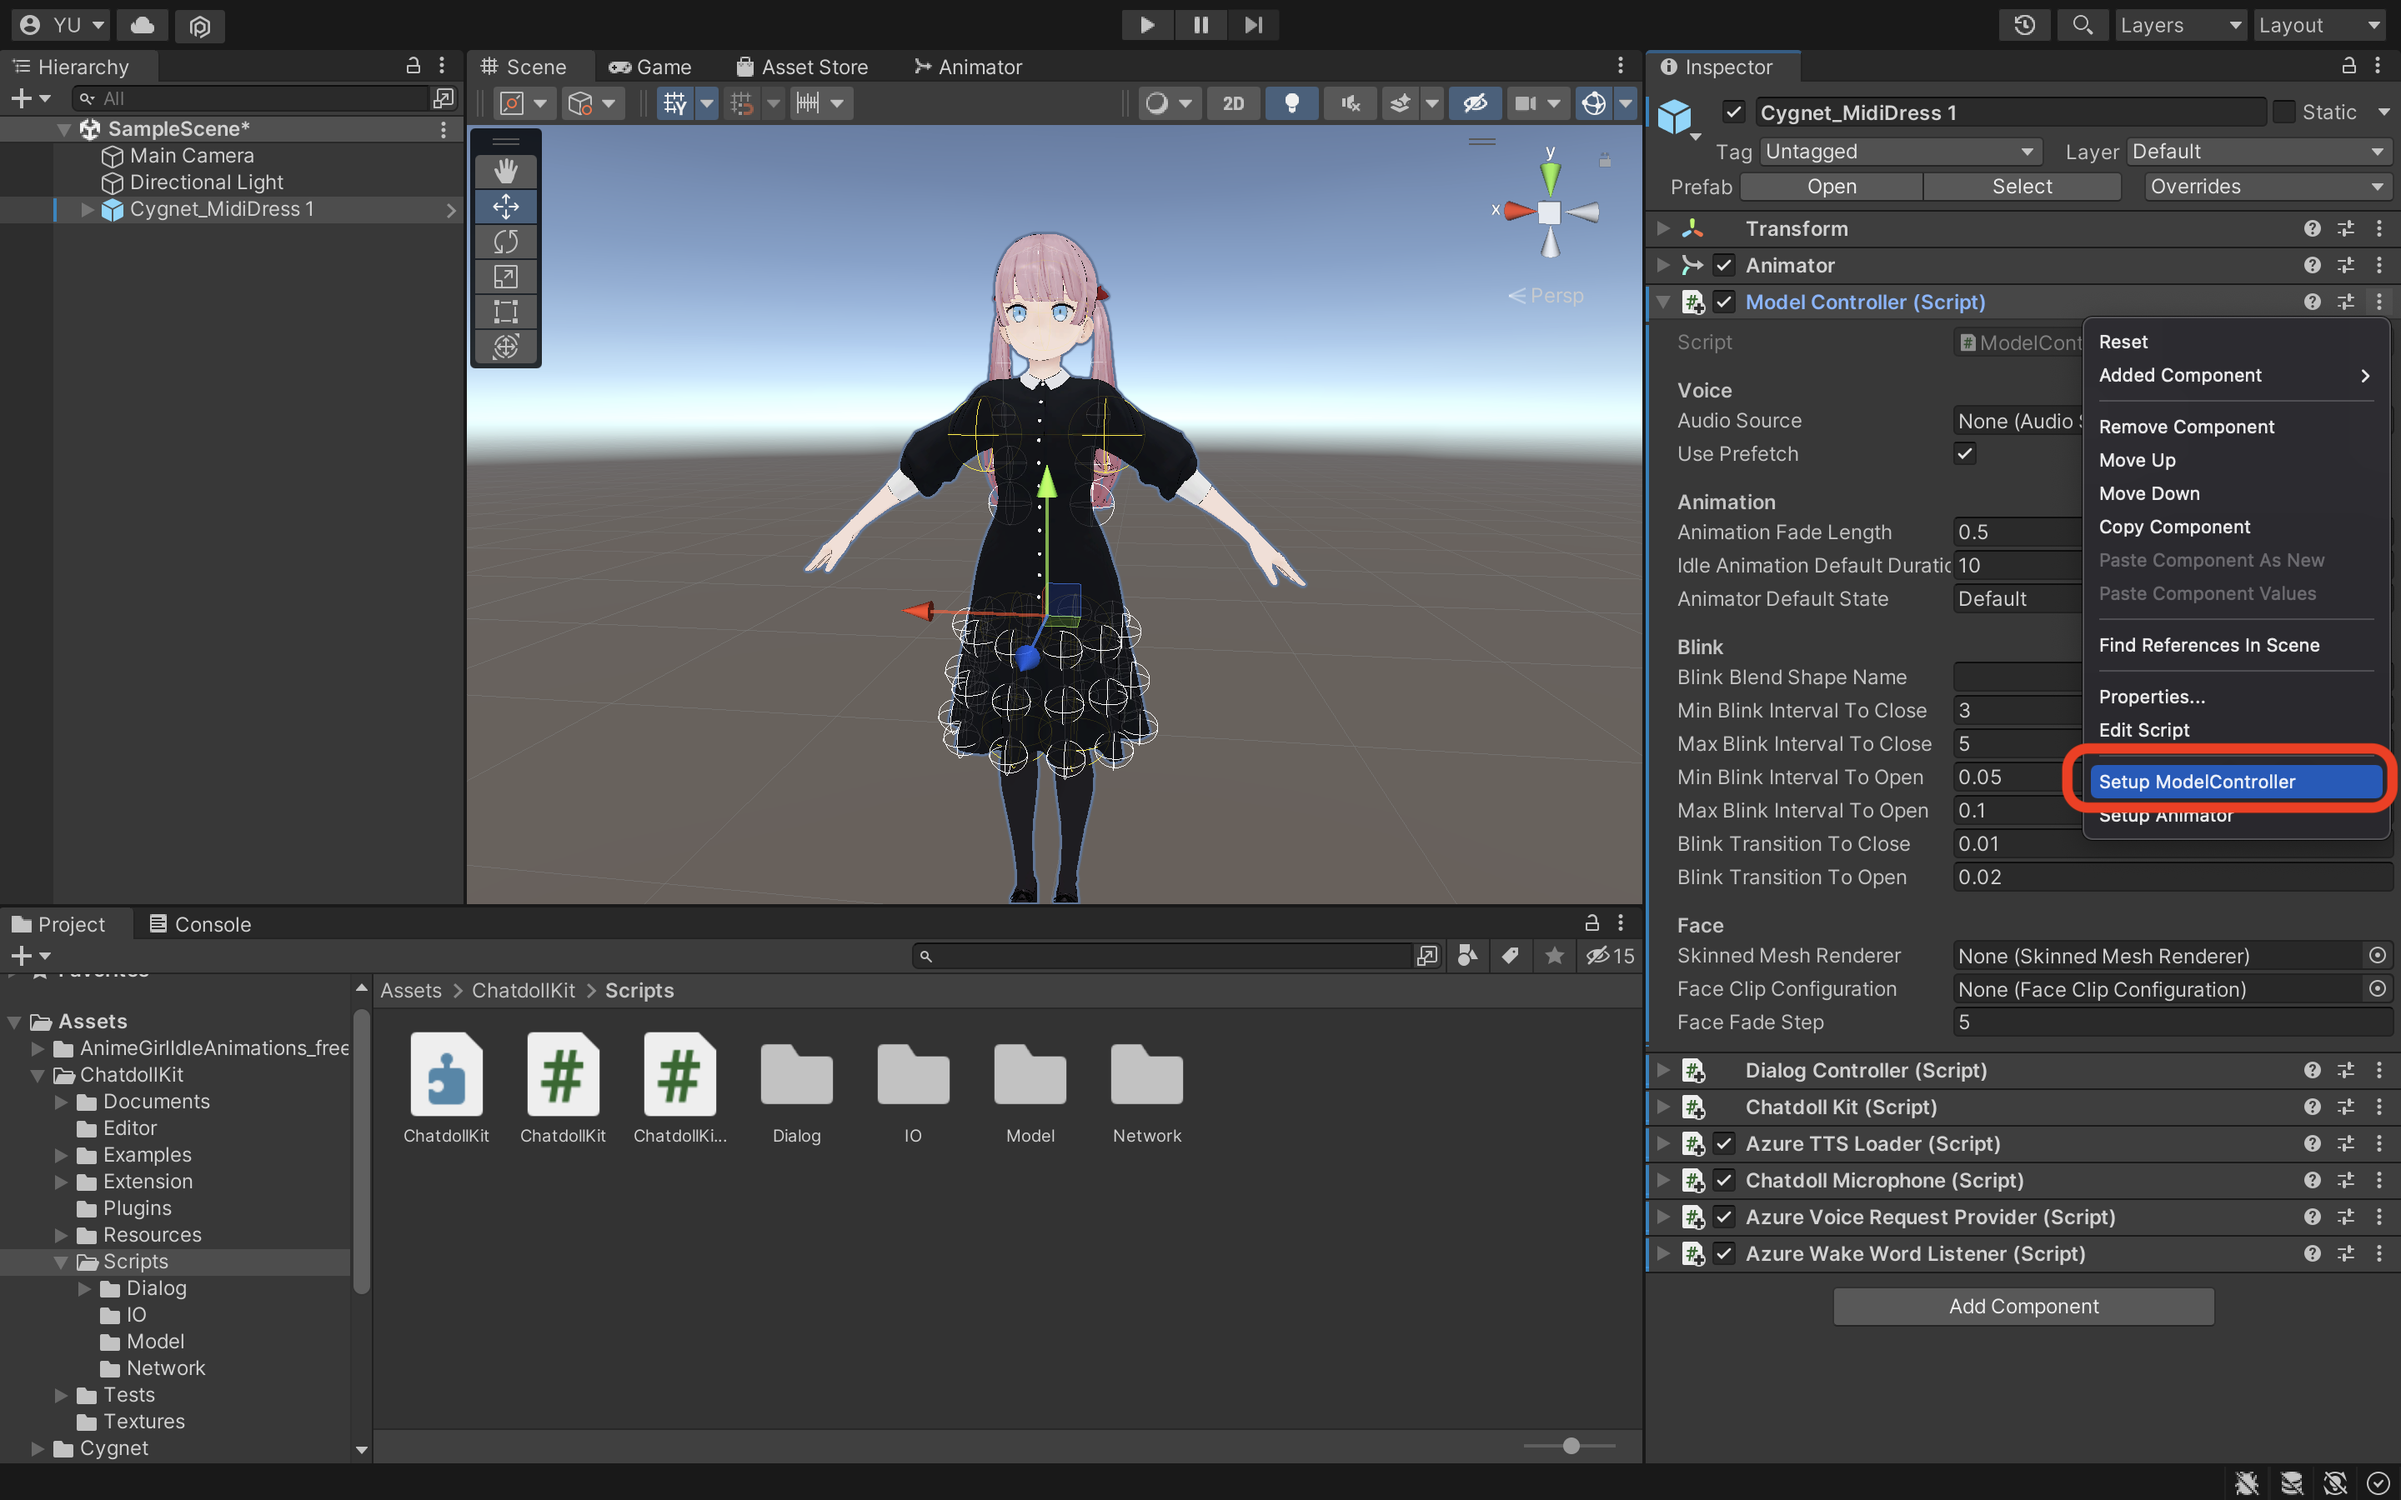
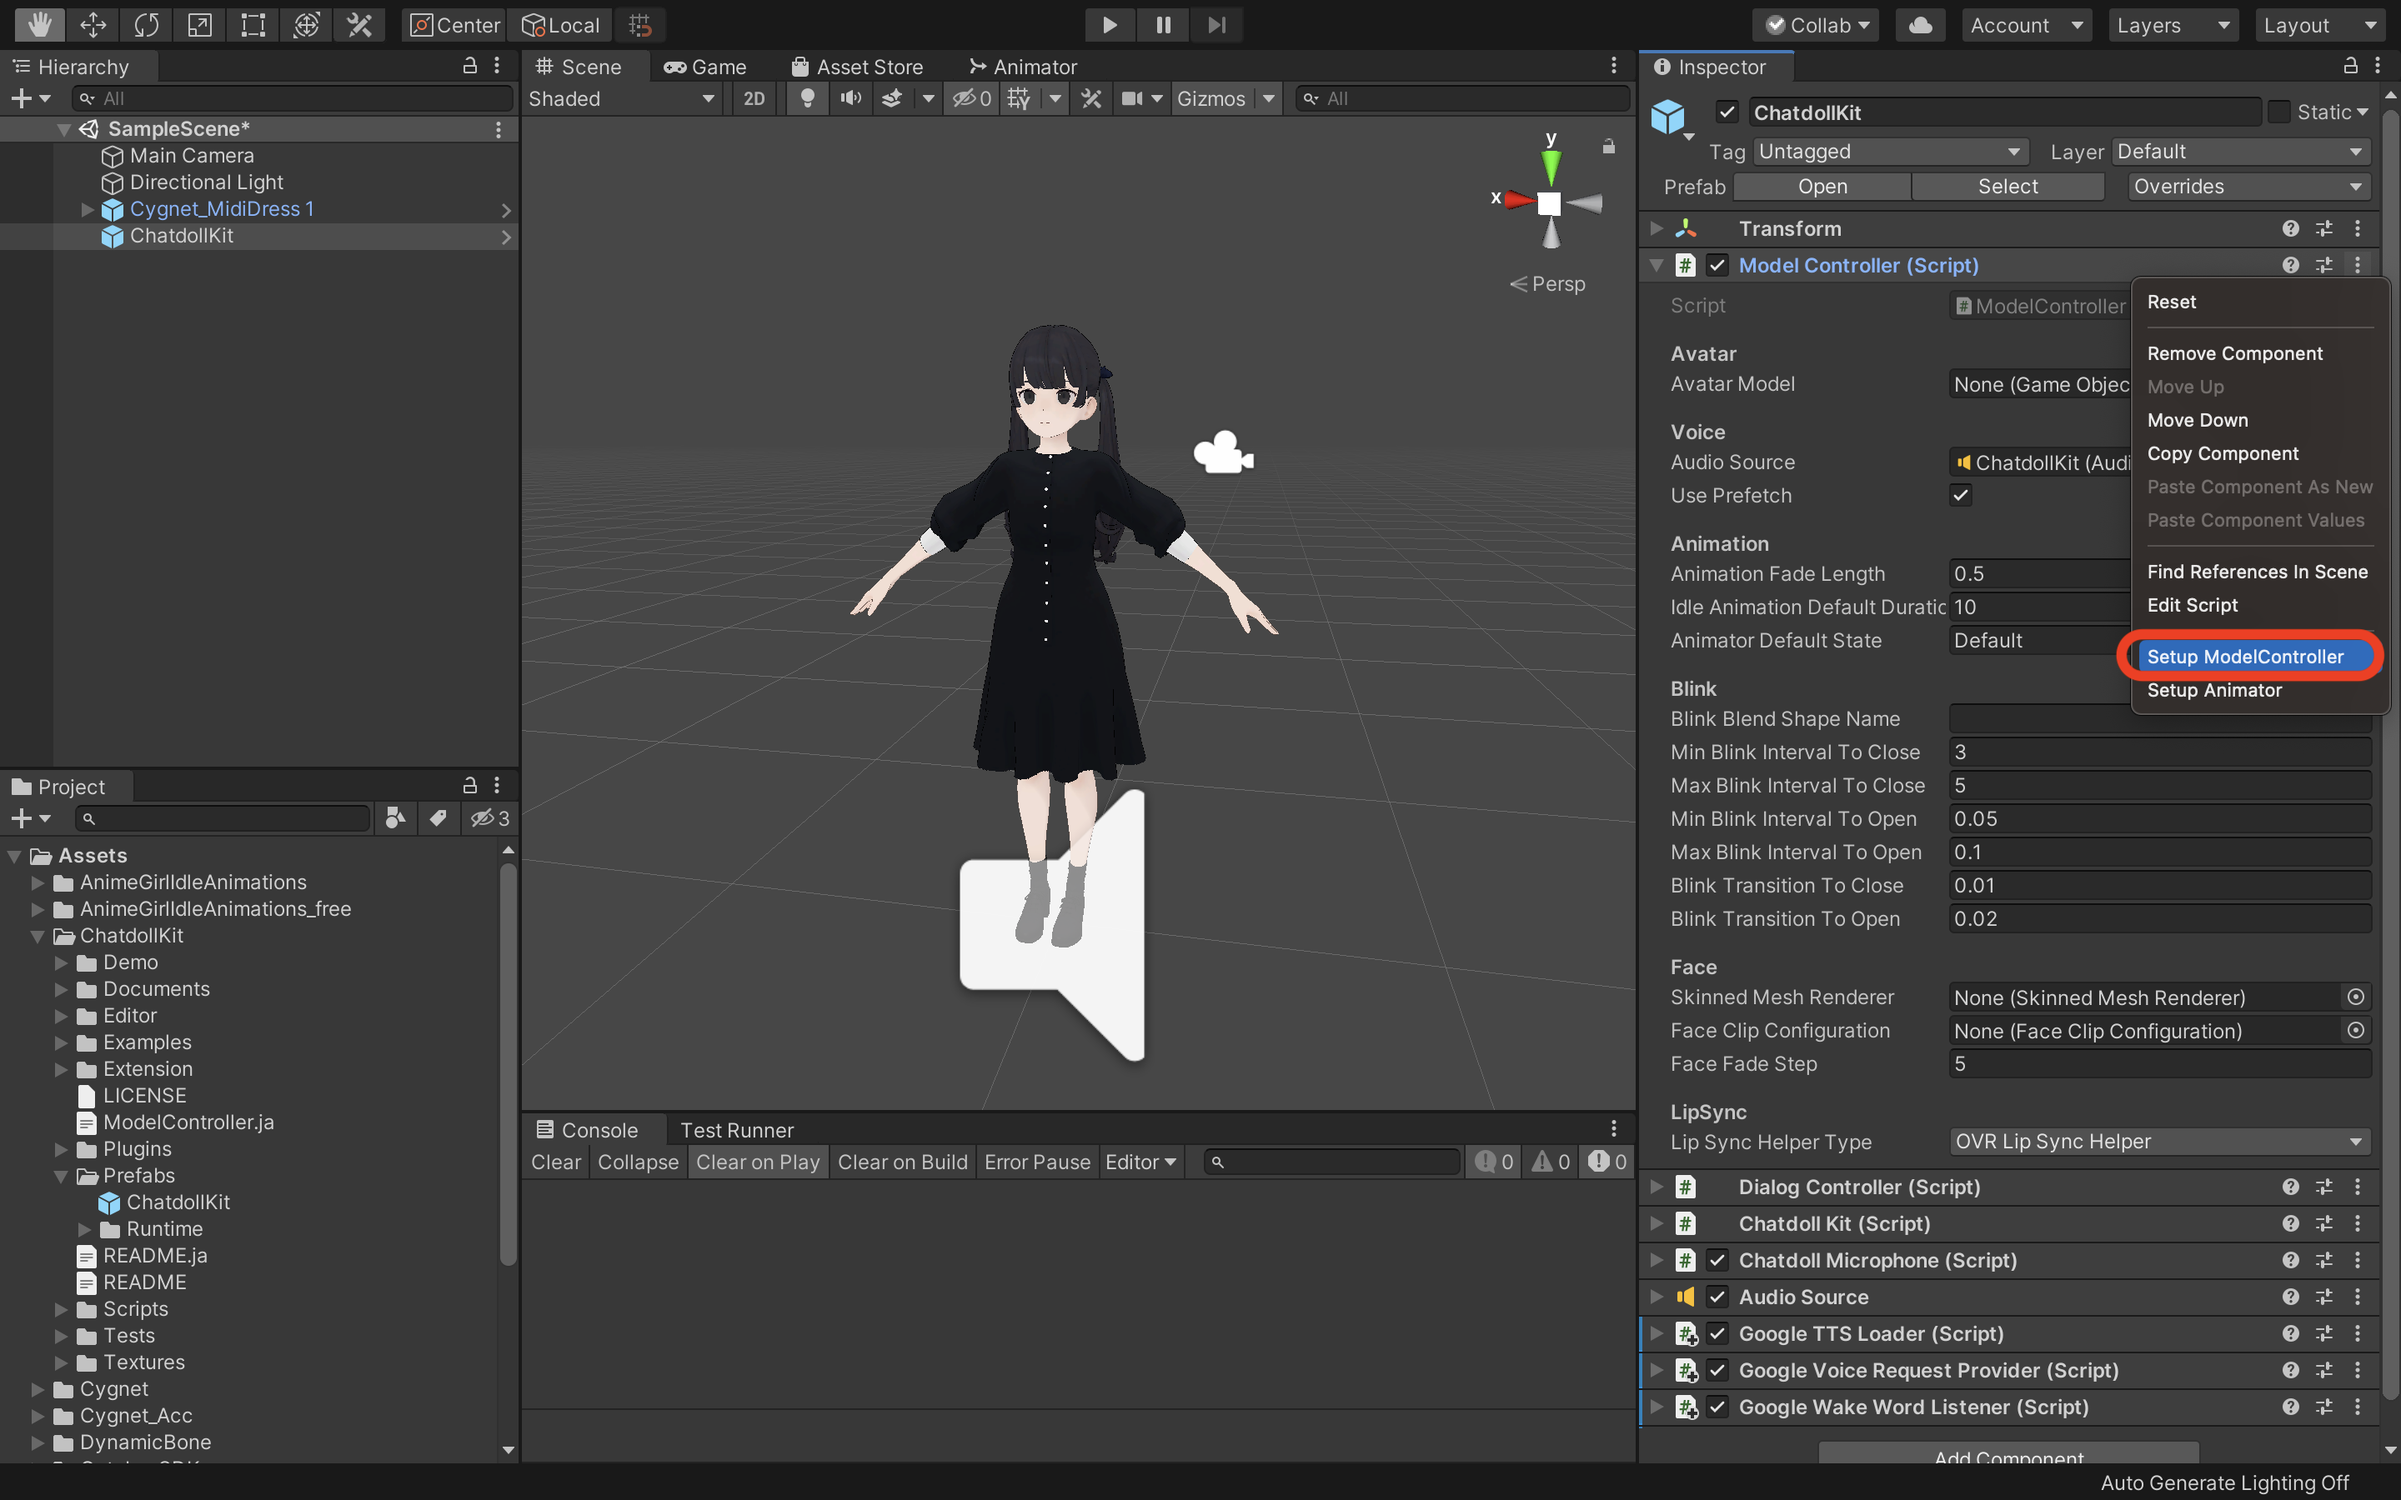
Update README for v0.5.2

diff --git a/README.md b/README.md
@@ -53,7 +53,7 @@ In this README, I use [Anime Girls Idle Animations Free](https://assetstore.unit
 
 ## 🍣 ChatdollKit configuration
 
-Add `ChatdollKit/Scripts/ChatdollKit` to the 3D model. Required components will also be added automatically.
+Add `ChatdollKit/Prefabs/ChatdollKit` to the scene.
 
 Then, select the speech service (Azure/Google/Watson) you use and set API key and some properties like Region and BaseUrl on inspector of ChatdollKit.
 
@@ -86,6 +86,13 @@ After creating Animator Controller you can select default idle animation by edit
 If you want to setup manually, see [Appendix2. Setup Animator manually](Documents/appendix.md#appendix-2-setup-animator-manually)
 
 <img src="Documents/Images/03_02_animator.png" width="640">
+
+
+### Add skill
+
+Attach `Examples/Echo/Skills/EchoSkill` to `ChatdollKit`. This is a skill for echo.
+
+<img src="Documents/Images/04_add_echo_skill.png" width="640">
 
 
 ## 🥳 Run
